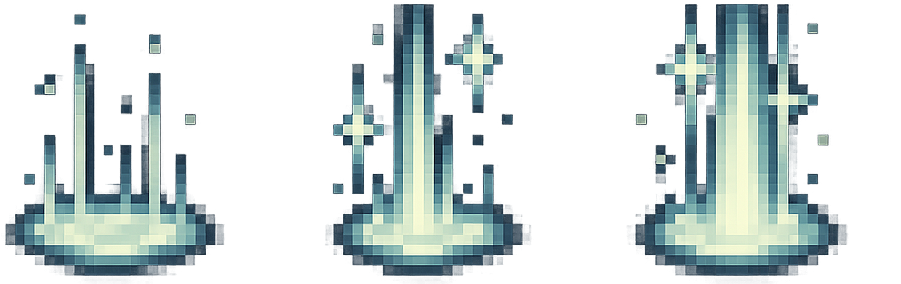
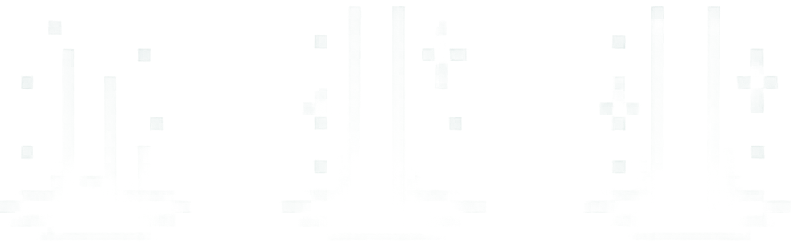
saving progress

diff --git a/src/config/portals.ts b/src/config/portals.ts
@@ -2,7 +2,7 @@ import { MapType, PortalConfig } from "../types";
 import { TILE_SIZE } from "../constants/map";
 
 // Debug the assets to make sure they're loading correctly
-const portalSprite = require("../assets/portal.png");
+const portalSprite = require("../assets/portal-2.png");
 console.log("[Portals Config] Portal sprite loaded:", portalSprite);
 
 // Animation configuration for portals
@@ -31,7 +31,7 @@ export const PORTAL_CONFIGS: { [key: string]: PortalConfig } = {
       x: 4.5 * TILE_SIZE, // Center on the door in cabin interior
       y: 6 * TILE_SIZE, // Position at row 6 where door is
     },
-    triggerDistance: TILE_SIZE * 1.5, // Much larger trigger area
+    triggerDistance: TILE_SIZE * 1,
     sprite: portalSprite,
     sourceMapType: MapType.FOREST, // This portal only appears in the forest map
     animation: {
@@ -55,7 +55,7 @@ export const PORTAL_CONFIGS: { [key: string]: PortalConfig } = {
       x: 17 * TILE_SIZE + TILE_SIZE / 2, // Position outside cabin
       y: 17 * TILE_SIZE + TILE_SIZE / 2, // Just in front of cabin
     },
-    triggerDistance: TILE_SIZE * 1.5, // Much larger trigger area
+    triggerDistance: TILE_SIZE * 1,
     sprite: portalSprite,
     sourceMapType: MapType.CABIN_INTERIOR, // This portal only appears in the cabin map
     animation: {

diff --git a/src/components/Map.tsx b/src/components/Map.tsx
@@ -300,7 +300,7 @@ export const Map: React.FC<MapProps> = React.memo(({ position, dimensions, tileD
           <ImageBackground
             source={background || require("../assets/forest-background.png")}
             style={styles.background}
-            resizeMode="repeat"
+            resizeMode="contain"
             onLoadEnd={() => {
               if (!backgroundLoaded) {
                 console.log("[Map] Background load ended");

diff --git a/src/components/Portal.tsx b/src/components/Portal.tsx
@@ -4,7 +4,7 @@ import { PortalEntity } from "../types";
 import { PORTAL_CONFIGS } from "../config/portals";
 
 // Set to true to show debug info about the portal
-const SHOW_PORTAL_DEBUG = true;
+const SHOW_PORTAL_DEBUG = false;
 
 interface PortalProps {
   id: string;
